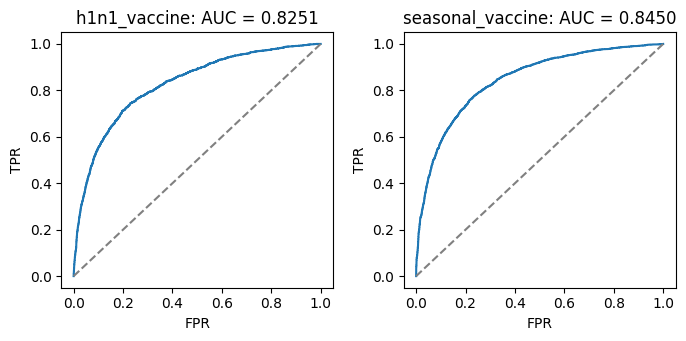
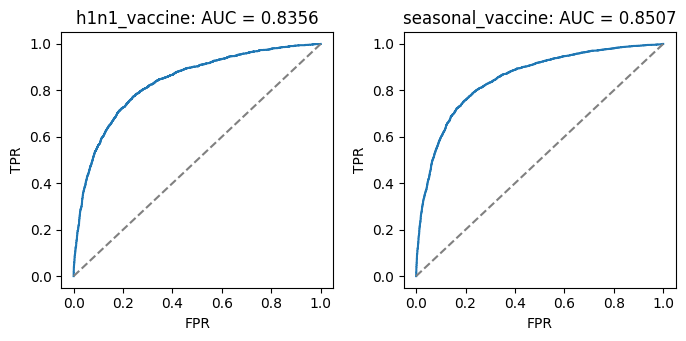
Hyperparameter tune

diff --git a/01 Driven Data - Flu Shot/src/model_data.py b/01 Driven Data - Flu Shot/src/model_data.py
@@ -7,7 +7,7 @@ from sklearn.compose import ColumnTransformer
 from sklearn.preprocessing import OneHotEncoder, StandardScaler
 from sklearn.impute import SimpleImputer
 from sklearn.pipeline import Pipeline
-from sklearn.model_selection import train_test_split, learning_curve
+from sklearn.model_selection import train_test_split, learning_curve, GridSearchCV
 from sklearn.multioutput import MultiOutputClassifier
 from sklearn.linear_model import LogisticRegression
 from sympy.abc import alpha
@@ -15,6 +15,7 @@ from xgboost import XGBClassifier
 from sklearn.metrics import roc_curve, roc_auc_score
 from sklearn.metrics import confusion_matrix
 from sklearn.metrics import classification_report
+from sklearn.model_selection import RandomizedSearchCV
 import matplotlib.pyplot as plt
 
 FILENAME_INPUT_DATA_LABELS = '../data/Flu_Shot_Learning_Predict_H1N1_and_Seasonal_Flu_Vaccines_-_Training_Labels.csv'
@@ -22,7 +23,6 @@ FILENAME_INPUT_DATA_FEATURES = '../data/Flu_Shot_Learning_Predict_H1N1_and_Seaso
 
 FILENAME_INPUT_DATA_TEST_FEATURES = '../data/Flu_Shot_Learning_Predict_H1N1_and_Seasonal_Flu_Vaccines_-_Test_Features.csv'
 FILENAME_INPUT_DATA_SUBMISSION = '../data/Flu_Shot_Learning_Predict_H1N1_and_Seasonal_Flu_Vaccines_-_Submission_Format.csv'
-
 
 FILENAME_CLEANED_DATA_FEATURES = '../data/data_train.pkl'
 FILENAME_DATA_TARGET_TRAIN = '../data/target_train.pkl'
@@ -43,7 +43,7 @@ class CleanedFluShotData:
         data_test = self.feature_engineering(self.test_features_df)
         self.y_preds, self.y_test, self.main_pipe = self.create_model(data_train, self.df_labels)
         self.evaluate_model()
-        self.prepare_sumbission(data_test)
+        # self.prepare_sumbission(data_test)
 
     def load_data(self):
         """
@@ -192,7 +192,7 @@ class CleanedFluShotData:
         # estimator=LogisticRegression(penalty="l2", C=1)
 
         estimators = MultiOutputClassifier(
-            estimator=XGBClassifier()
+            estimator=LogisticRegression()
         )
 
         # Make pipeline
@@ -202,8 +202,8 @@ class CleanedFluShotData:
                 ("model", estimators)])
 
         # Access the parameter keys of the individual estimators
-        # model_parameters = [p for p in main_pipe.get_params().keys() if re.search(r'^model__estimator__', p)]
-        # print(model_parameters)
+        model_parameters = [p for p in main_pipe.get_params().keys() if re.search(r'^model__estimator__', p)]
+        print(model_parameters)
 
         # Change the type of y: to numpy and remove id
         y_ = y.iloc[:,1:].to_numpy()
@@ -215,14 +215,39 @@ class CleanedFluShotData:
                                             random_state=RANDOM_SEED
                                         )
 
+        #
+        search = RandomizedSearchCV(
+            estimator=main_pipe,
+            param_distributions={
+                'model__estimator__C': np.logspace(-1, 1, 10),
+                'model__estimator__solver' : ['lbfgs', 'liblinear', 'newton-cg', 'sag', 'saga'],
+                'model__estimator__maxiter' : [100, 1000, 2500, 5000]
+
+
+            },
+            scoring=['accuracy', 'precision_micro', 'recall_micro'],
+            refit='precision_micro',
+            cv=3,
+            error_score='raise'
+        )
+
+        # create a gridsearch of the pipeline, the fit the best model
+        best_model = search.fit(X_train, y_train)
+
+        # Print the best set of hyperparameters and the corresponding score
+        print("Best set of hyperparameters: ", search.best_params_)
+        print("Best score: ", search.best_score_)
+
+        print(f"The mean accuracy of the model is : {best_model.score(X_train, y_train)}")
+
         # Train model
-        main_pipe.fit(X_train, y_train)
+        # clf.fit(X_train, y_train)
 
         # Predict on evaluation set
         # This competition wants probabilities, not labels
         # yhat = main_pipe.predict(X_test)
 
-        preds = main_pipe.predict_proba(X_test)
+        preds = best_model.predict_proba(X_test)
 
         # Print results
         # From Data Driven
@@ -252,7 +277,7 @@ class CleanedFluShotData:
             index=X_test.index
         )
 
-        return y_preds, y_test_, main_pipe
+        return y_preds, y_test_, best_model
 
 
         # Check the confusion matrices
